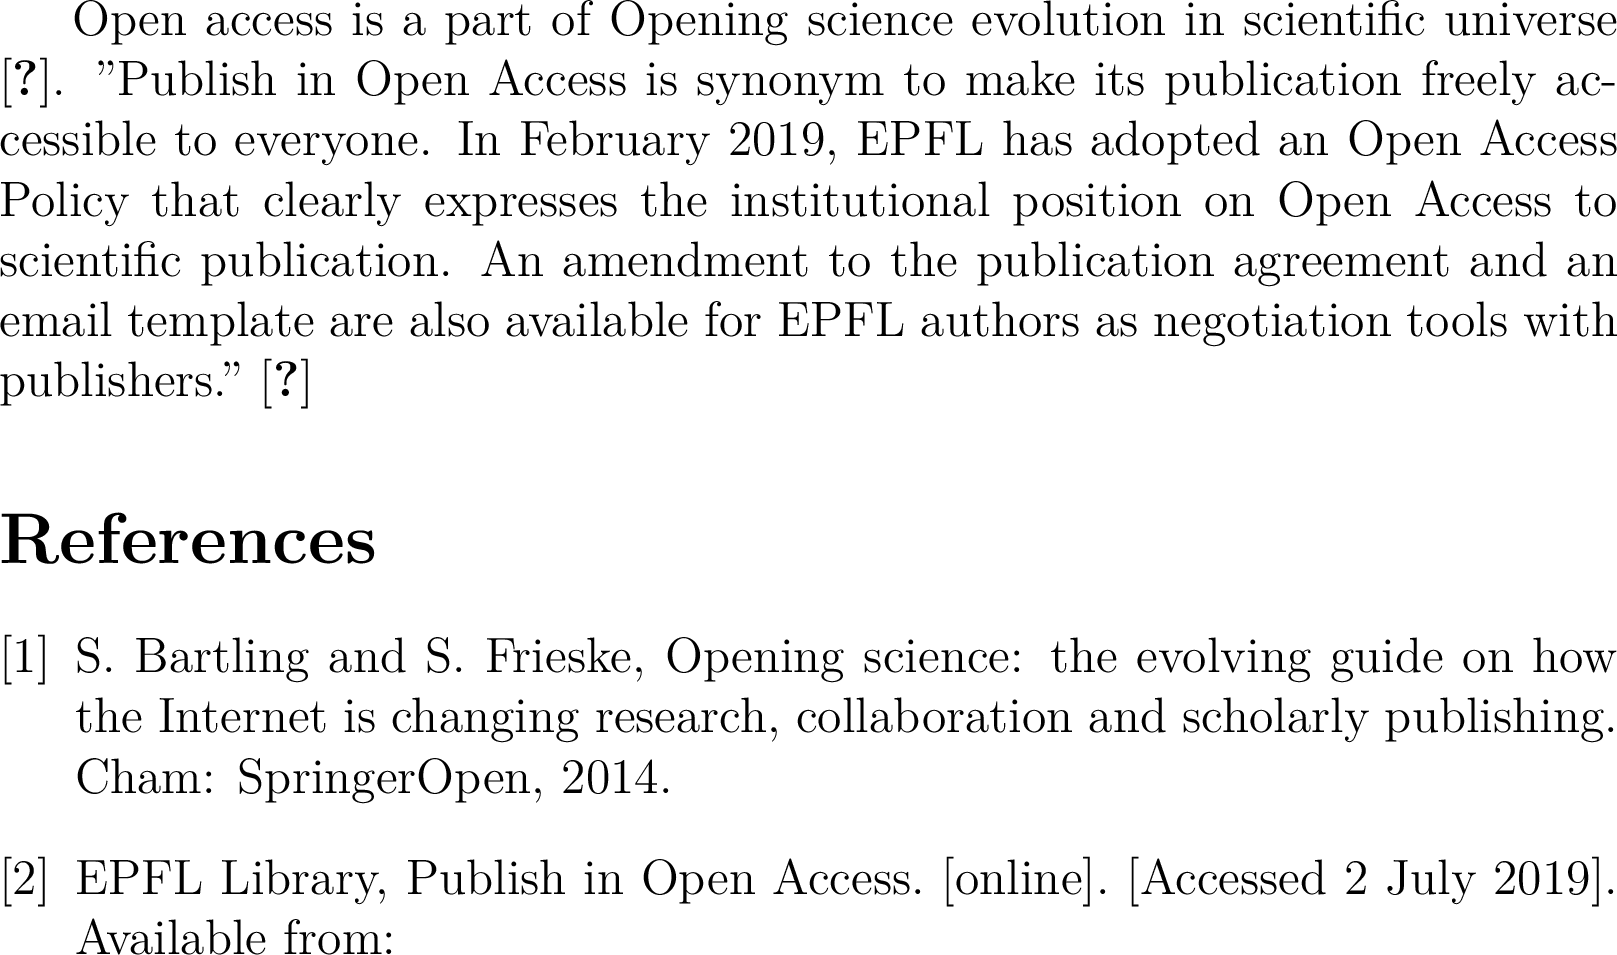
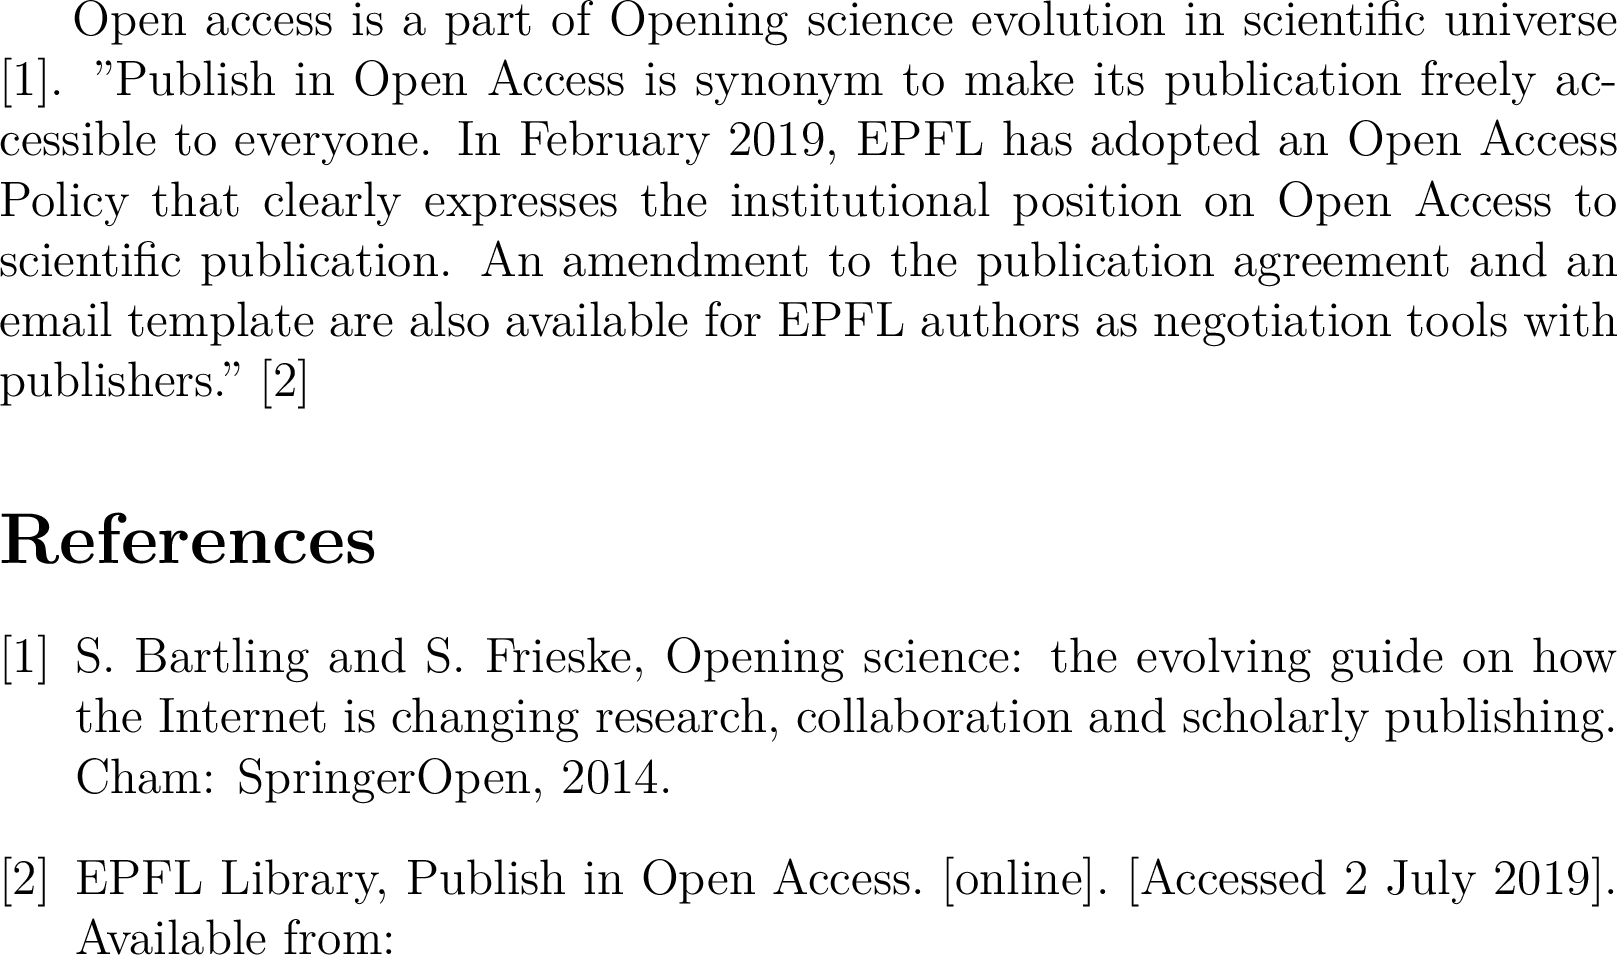
correct citation pbm

diff --git a/05-References/index.html b/05-References/index.html
@@ -19,7 +19,7 @@
   <head>
     <meta charset="utf-8">
     <meta http-equiv="X-UA-Compatible" content="IE=edge">
-    <meta http-equiv="last-modified" content="2019-07-04 09:54:15 +0200">
+    <meta http-equiv="last-modified" content="2019-07-04 10:15:07 +0200">
     <meta name="viewport" content="width=device-width, initial-scale=1">
     <!-- meta "search-domain" used for google site search function google_sear
     ch() -->
@@ -290,15 +290,15 @@
 
 
 <span class="nt">\begin{document}</span>
-Open access is a part of Opening science evolution in scientific universe <span class="k">\cite</span><span class="p">{</span>Bartling2014<span class="p">}</span>. 
-"Publish in Open Access is synonym to make its publication freely accessible to everyone. In February 2019, EPFL has adopted an Open Access Policy that clearly expresses the institutional position on Open Access to scientific 
-publication. An amendment to the publication agreement and an email template are also available for EPFL authors as negotiation tools with publishers." <span class="k">\cite</span><span class="p">{</span>EPFLlibrary2019<span class="p">}</span> 
+Open access is a part of Opening science evolution in scientific universe <span class="k">\cite</span><span class="p">{</span>Bartling2014<span class="p">}</span>.
+"Publish in Open Access is synonym to make its publication freely accessible to everyone. In February 2019, EPFL has adopted an Open Access Policy that clearly expresses the institutional position on Open Access to scientific
+publication. An amendment to the publication agreement and an email template are also available for EPFL authors as negotiation tools with publishers." <span class="k">\cite</span><span class="p">{</span>EPFLlibrary2019<span class="p">}</span>
  <span class="nt">\begin{thebibliography}</span><span class="p">{</span>1<span class="p">}</span>
   <span class="k">\bibitem</span><span class="p">{</span>Bartling2014<span class="p">}</span>
   S. Bartling and S. Frieske, Opening science: the evolving guide on how the Internet is changing research,
-  collaboration and scholarly publishing. Cham: SpringerOpen, 2014. 
+  collaboration and scholarly publishing. Cham: SpringerOpen, 2014.
   <span class="k">\bibitem</span><span class="p">{</span>EPFLlibrary2019<span class="p">}</span>
-  EPFL Library, Publish in Open Access. [online]. [Accessed 2 July 2019]. Available from: 
+  EPFL Library, Publish in Open Access. [online]. [Accessed 2 July 2019]. Available from:
   <span class="nt">\end{thebibliography}</span>
 <span class="nt">\end{document}</span>
 
@@ -323,8 +323,8 @@ with the bibliographic item containing the same key in the final bibliography.</
 <p><strong><em>Setting the indentation and width of labels in the final bibliography</em></strong></p>
 
 <p>The command <code class="language-html highlighter-rouge">\begin{thebibliography}{}</code> requires a mandatory argument. If you do not set this parameter, an error message
-is diplayed. If you do not set it correctly the indentation of the final bibliography will be chaotic. In fact, 
-this argument determines the width of the widest bibliographic label and the amount of indentation of 
+is diplayed. If you do not set it correctly the indentation of the final bibliography will be chaotic. In fact,
+this argument determines the width of the widest bibliographic label and the amount of indentation of
 the final bibliography.</p>
 
 <div class="callout">
@@ -340,7 +340,7 @@ the final bibliography.</p>
 <span class="nt">\begin{document}</span>
   This is before reading <span class="k">\cite</span><span class="p">{</span>Chevalier<span class="p">}</span>
   <span class="nt">\begin{thebibliography}</span><span class="p">{</span>abcd<span class="p">}</span>
-   <span class="k">\bibitem</span><span class="na">[0001]</span><span class="p">{</span>Chevalier<span class="p">}</span>, Céline, LaTeX pour l'impatient, 
+   <span class="k">\bibitem</span><span class="na">[0001]</span><span class="p">{</span>Chevalier<span class="p">}</span>, Céline, LaTeX pour l'impatient,
    H<span class="k">\&amp;</span>K, 2007. Paris
   <span class="nt">\end{thebibliography}</span>
 <span class="nt">\end{document}</span>
@@ -355,7 +355,7 @@ the final bibliography.</p>
 
 </div>
 
-<p>If you use the environment <code class="language-html highlighter-rouge">{the bibliography}</code> in a document defined as an article, the title of your final 
+<p>If you use the environment <code class="language-html highlighter-rouge">{the bibliography}</code> in a document defined as an article, the title of your final
 bibliography will be “References”/en and “Références”/fr, but for a document defined as a book or a report
 “Bibliography”/en and “Biblographie”/fr.</p>
 

diff --git a/01-LatexPrinciples/index.html b/01-LatexPrinciples/index.html
@@ -19,7 +19,7 @@
   <head>
     <meta charset="utf-8">
     <meta http-equiv="X-UA-Compatible" content="IE=edge">
-    <meta http-equiv="last-modified" content="2019-07-04 09:54:15 +0200">
+    <meta http-equiv="last-modified" content="2019-07-04 10:15:07 +0200">
     <meta name="viewport" content="width=device-width, initial-scale=1">
     <!-- meta "search-domain" used for google site search function google_sear
     ch() -->

diff --git a/02-DocumentOrganization/index.html b/02-DocumentOrganization/index.html
@@ -19,7 +19,7 @@
   <head>
     <meta charset="utf-8">
     <meta http-equiv="X-UA-Compatible" content="IE=edge">
-    <meta http-equiv="last-modified" content="2019-07-04 09:54:15 +0200">
+    <meta http-equiv="last-modified" content="2019-07-04 10:15:07 +0200">
     <meta name="viewport" content="width=device-width, initial-scale=1">
     <!-- meta "search-domain" used for google site search function google_sear
     ch() -->

diff --git a/03-Text/index.html b/03-Text/index.html
@@ -19,7 +19,7 @@
   <head>
     <meta charset="utf-8">
     <meta http-equiv="X-UA-Compatible" content="IE=edge">
-    <meta http-equiv="last-modified" content="2019-07-04 09:54:15 +0200">
+    <meta http-equiv="last-modified" content="2019-07-04 10:15:07 +0200">
     <meta name="viewport" content="width=device-width, initial-scale=1">
     <!-- meta "search-domain" used for google site search function google_sear
     ch() -->

diff --git a/04-Floats/index.html b/04-Floats/index.html
@@ -19,7 +19,7 @@
   <head>
     <meta charset="utf-8">
     <meta http-equiv="X-UA-Compatible" content="IE=edge">
-    <meta http-equiv="last-modified" content="2019-07-04 09:54:15 +0200">
+    <meta http-equiv="last-modified" content="2019-07-04 10:15:07 +0200">
     <meta name="viewport" content="width=device-width, initial-scale=1">
     <!-- meta "search-domain" used for google site search function google_sear
     ch() -->

diff --git a/06-Citations/index.html b/06-Citations/index.html
@@ -19,7 +19,7 @@
   <head>
     <meta charset="utf-8">
     <meta http-equiv="X-UA-Compatible" content="IE=edge">
-    <meta http-equiv="last-modified" content="2019-07-04 09:54:15 +0200">
+    <meta http-equiv="last-modified" content="2019-07-04 10:15:07 +0200">
     <meta name="viewport" content="width=device-width, initial-scale=1">
     <!-- meta "search-domain" used for google site search function google_sear
     ch() -->

diff --git a/07-Maths/index.html b/07-Maths/index.html
@@ -19,7 +19,7 @@
   <head>
     <meta charset="utf-8">
     <meta http-equiv="X-UA-Compatible" content="IE=edge">
-    <meta http-equiv="last-modified" content="2019-07-04 09:54:15 +0200">
+    <meta http-equiv="last-modified" content="2019-07-04 10:15:07 +0200">
     <meta name="viewport" content="width=device-width, initial-scale=1">
     <!-- meta "search-domain" used for google site search function google_sear
     ch() -->

diff --git a/CODE_OF_CONDUCT.html b/CODE_OF_CONDUCT.html
@@ -19,7 +19,7 @@
   <head>
     <meta charset="utf-8">
     <meta http-equiv="X-UA-Compatible" content="IE=edge">
-    <meta http-equiv="last-modified" content="2019-07-04 09:54:15 +0200">
+    <meta http-equiv="last-modified" content="2019-07-04 10:15:07 +0200">
     <meta name="viewport" content="width=device-width, initial-scale=1">
     <!-- meta "search-domain" used for google site search function google_sear
     ch() -->

diff --git a/LICENSE.html b/LICENSE.html
@@ -19,7 +19,7 @@
   <head>
     <meta charset="utf-8">
     <meta http-equiv="X-UA-Compatible" content="IE=edge">
-    <meta http-equiv="last-modified" content="2019-07-04 09:54:15 +0200">
+    <meta http-equiv="last-modified" content="2019-07-04 10:15:07 +0200">
     <meta name="viewport" content="width=device-width, initial-scale=1">
     <!-- meta "search-domain" used for google site search function google_sear
     ch() -->

diff --git a/about/index.html b/about/index.html
@@ -19,7 +19,7 @@
   <head>
     <meta charset="utf-8">
     <meta http-equiv="X-UA-Compatible" content="IE=edge">
-    <meta http-equiv="last-modified" content="2019-07-04 09:54:15 +0200">
+    <meta http-equiv="last-modified" content="2019-07-04 10:15:07 +0200">
     <meta name="viewport" content="width=device-width, initial-scale=1">
     <!-- meta "search-domain" used for google site search function google_sear
     ch() -->

diff --git a/aio.html b/aio.html
@@ -19,7 +19,7 @@
   <head>
     <meta charset="utf-8">
     <meta http-equiv="X-UA-Compatible" content="IE=edge">
-    <meta http-equiv="last-modified" content="2019-07-04 09:54:15 +0200">
+    <meta http-equiv="last-modified" content="2019-07-04 10:15:07 +0200">
     <meta name="viewport" content="width=device-width, initial-scale=1">
     <!-- meta "search-domain" used for google site search function google_sear
     ch() -->

diff --git a/discuss/index.html b/discuss/index.html
@@ -19,7 +19,7 @@
   <head>
     <meta charset="utf-8">
     <meta http-equiv="X-UA-Compatible" content="IE=edge">
-    <meta http-equiv="last-modified" content="2019-07-04 09:54:15 +0200">
+    <meta http-equiv="last-modified" content="2019-07-04 10:15:07 +0200">
     <meta name="viewport" content="width=device-width, initial-scale=1">
     <!-- meta "search-domain" used for google site search function google_sear
     ch() -->
